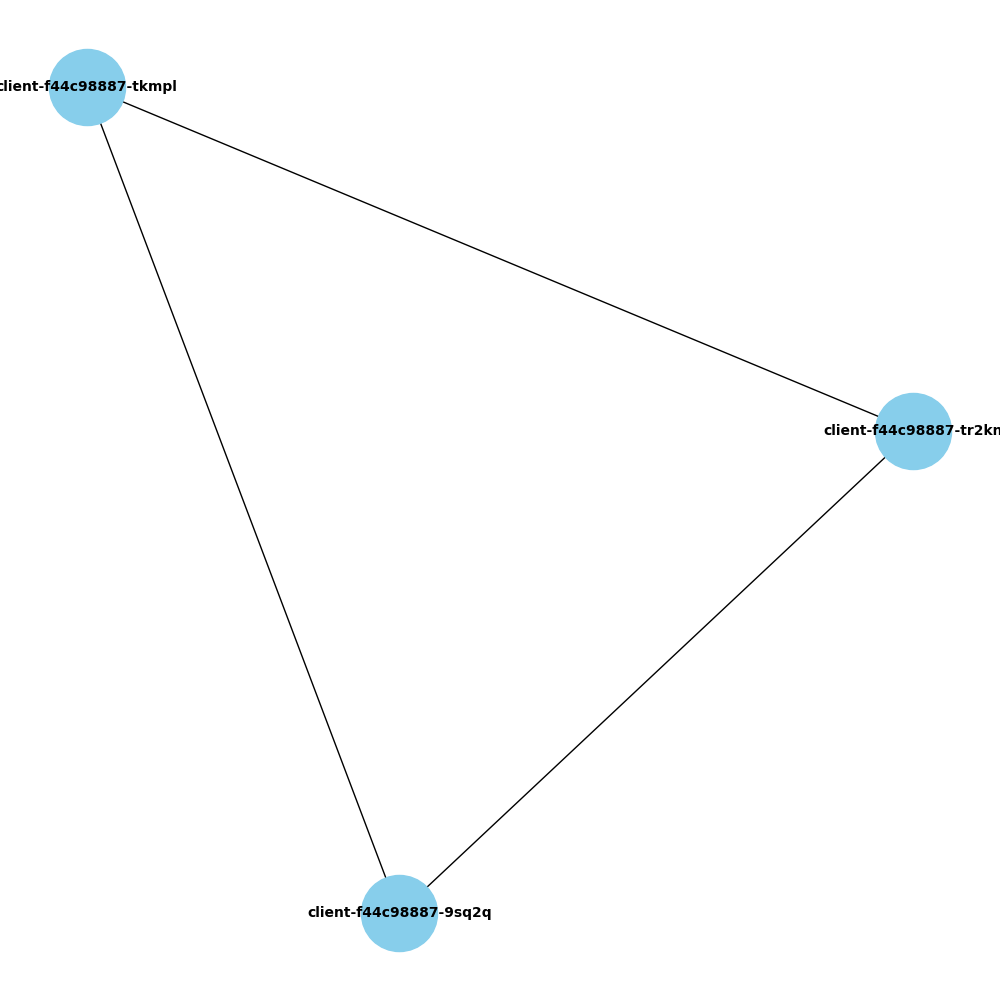
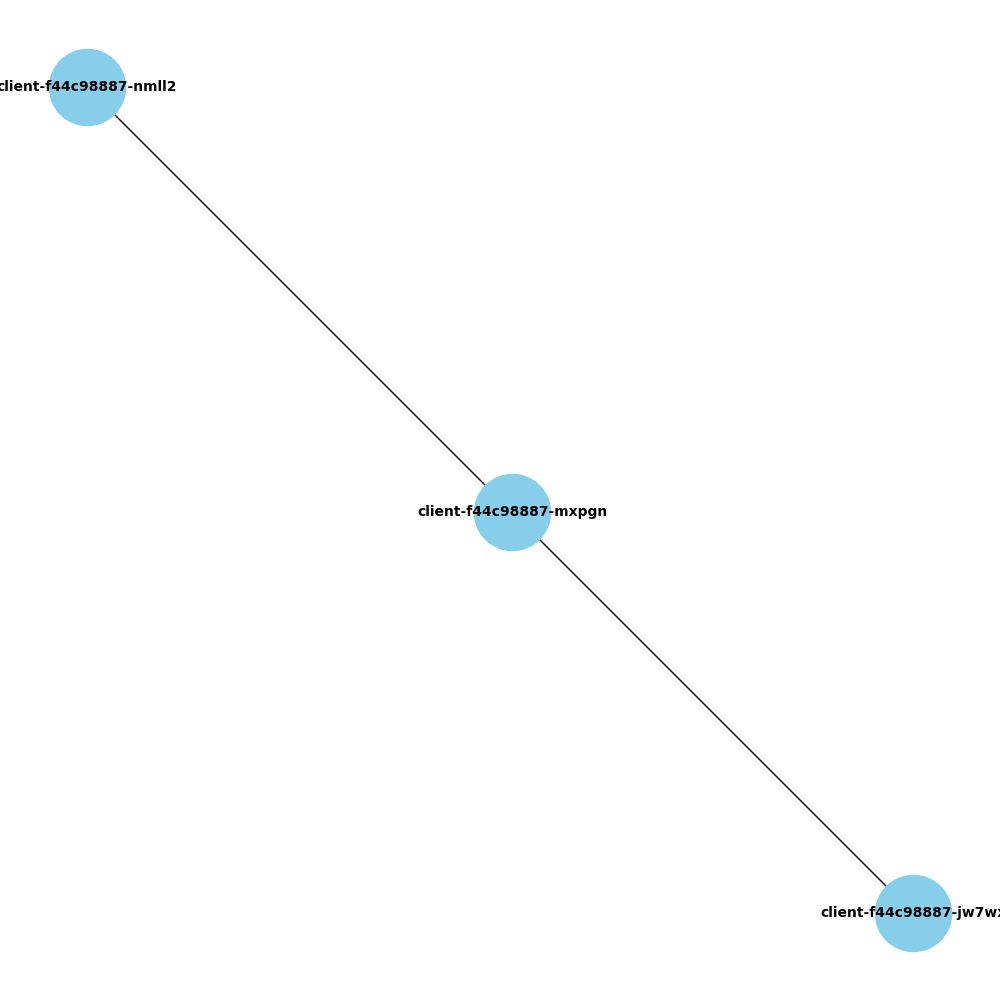
work, modify add_edges function such that add edges is defined based on k neighbors

diff --git a/fed_relax.py b/fed_relax.py
@@ -141,9 +141,12 @@ def get_pod_attributes(namespace="fed-relax", label_selector="app=fedrelax-clien
     return pod_info
 
 
-def add_edges_k8s(namespace="fed-relax"):
+from sklearn.neighbors import kneighbors_graph
+
+def add_edges_k8s(namespace="fed-relax", nrneighbors=1, pos='coords', refdistance=1):
     """
-    Add edges to the graph based on pod attributes retrieved from Kubernetes config maps.
+    Add edges to the graph based on pod attributes retrieved from Kubernetes config maps
+    using k-nearest neighbors approach.
     """
     # Get pod information from Kubernetes cluster
     pod_info = get_pod_attributes(namespace=namespace)
@@ -155,15 +158,24 @@ def add_edges_k8s(namespace="fed-relax"):
     for pod_name, attributes in pod_info.items():
         graph.add_node(pod_name, **attributes)
     
-    # Calculate distances and add edges based on pod attributes
-    for pod_name1, attr1 in pod_info.items():
-        for pod_name2, attr2 in pod_info.items():
-            if pod_name1 != pod_name2:
-                # Calculate distance between pods based on attributes (e.g., coordinates)
-                distance = np.linalg.norm(np.array(attr1["coords"]) - np.array(attr2["coords"]))
+    # Build a numpy array containing node positions
+    node_positions = np.array([attributes[pos] for attributes in pod_info.values()])
+    
+    # Calculate k-nearest neighbors graph
+    A = kneighbors_graph(node_positions, n_neighbors=nrneighbors, mode='connectivity', include_self=False)
+    
+    # Iterate over the k-nearest neighbors graph and add edges with weights
+    for i in range(len(pod_info)):
+        for j in range(len(pod_info)):
+            if A[i, j] > 0:
+                pod_name_i = list(pod_info.keys())[i]
+                pod_name_j = list(pod_info.keys())[j]
+                
+                # Calculate the Euclidean distance between pods based on their positions
+                distance = np.linalg.norm(node_positions[i] - node_positions[j])
                 
                 # Add edge with weight based on distance
-                graph.add_edge(pod_name1, pod_name2, weight=distance)
+                graph.add_edge(pod_name_i, pod_name_j, weight=distance)
     
     return graph
 
